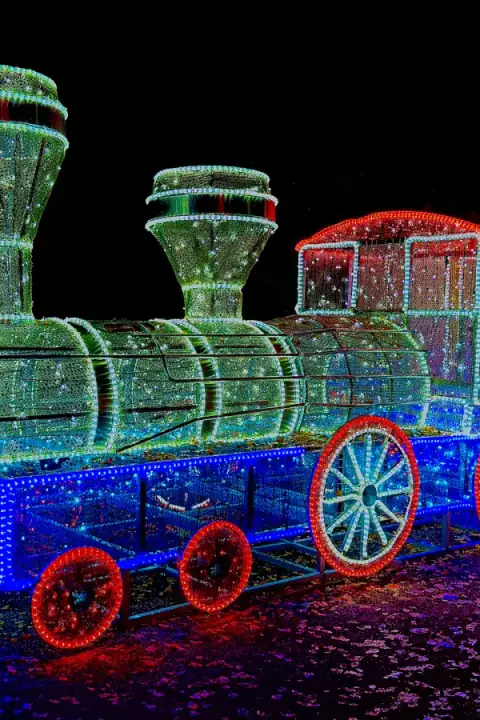
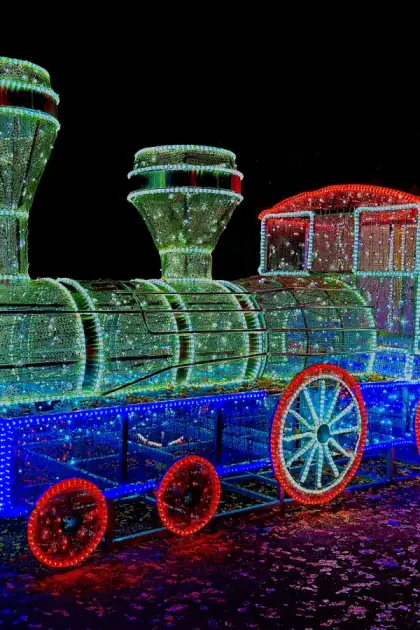
perf: eliminate hero LCP render delay and optimize mobile hero to 44KB

diff --git a/src/app/page.tsx b/src/app/page.tsx
@@ -82,21 +82,21 @@ export default function HomePage() {
         {/* Content — anchored to bottom */}
         <div className="relative z-10 w-full max-w-7xl mx-auto px-6 sm:px-8">
           {/* Location tag */}
-          <div className="mb-6 animate-fade-in">
+          <div className="mb-6">
             <span className="text-[11px] uppercase tracking-[0.3em] text-zinc-400 font-medium">
               TwoFrame Studio &ensp;/&ensp; Budapest
             </span>
           </div>
 
           {/* Main Headline */}
-          <h1 className="text-5xl sm:text-7xl md:text-8xl font-light tracking-tight text-white leading-[1.02] mb-6 animate-slide-up max-w-4xl">
+          <h1 className="text-5xl sm:text-7xl md:text-8xl font-light tracking-tight text-white leading-[1.02] mb-6 max-w-4xl">
             Vizuális tartalom<br />
             <span className="text-gradient-purple">előadóknak,</span>{" "}
             eseményeknek<br className="hidden sm:inline" /> és márkáknak.
           </h1>
 
           {/* Supporting line + CTAs */}
-          <div className="flex flex-col sm:flex-row sm:items-end justify-between gap-8 animate-slide-up delay-200">
+          <div className="flex flex-col sm:flex-row sm:items-end justify-between gap-8">
             <p className="text-sm sm:text-base text-zinc-400 font-light max-w-sm leading-relaxed">
               Fotó, videó és kreatív tartalom,<br />
               amely azonnal megkülönbözteti a márkádat.
